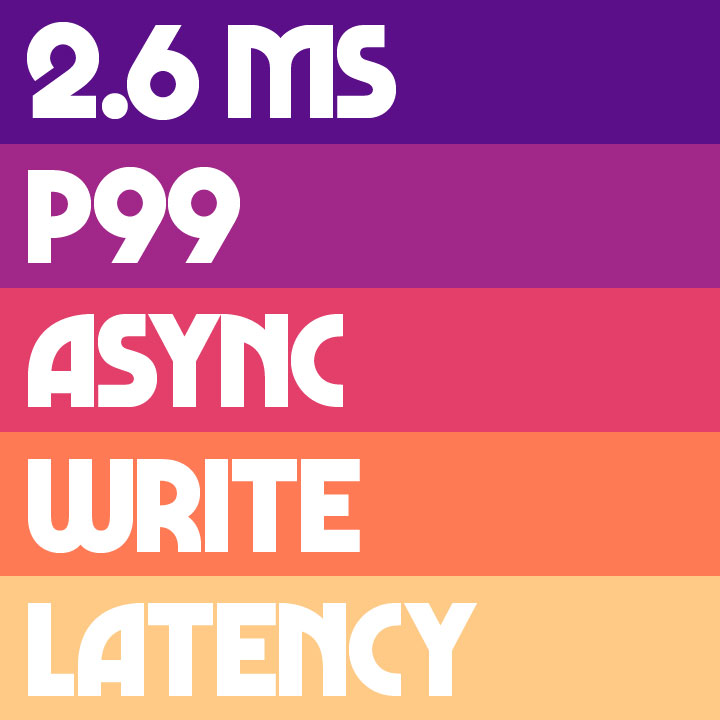
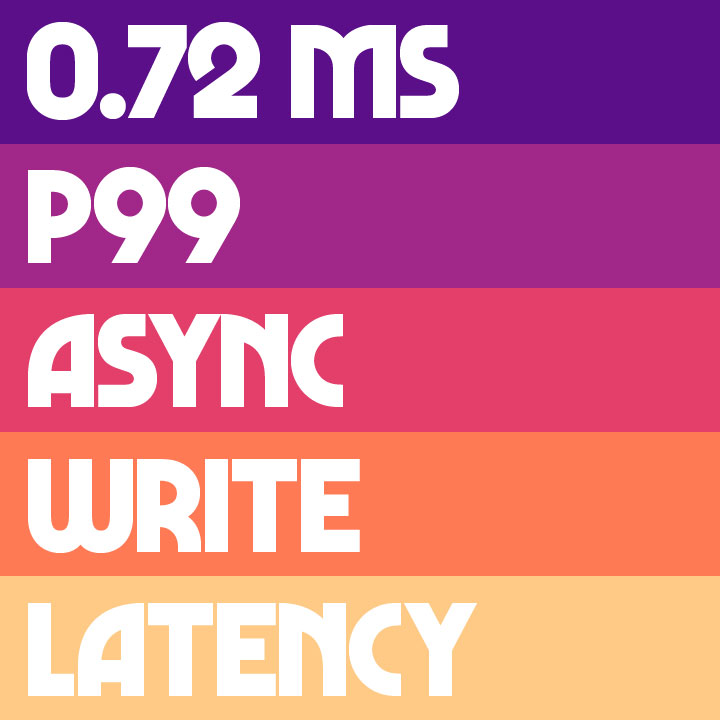
[docs] README: fix perf numbers with unthrottled version

Changed region(s): [[0.0306, 0.0306, 0.6417, 0.1833]]

diff --git a/README.md b/README.md
@@ -197,11 +197,11 @@ mikyu dequeue jobs
 
 ## <img src="https://api.iconify.design/lucide/rocket.svg?color=%23ffca86" width="20" height="20">&nbsp; Performance
 
-mikyu's core is built in a way that you don't have to choose between performance and simplicity.
+mikyu's core is optimized so that you don't have to choose between performance and simplicity.
 <table>
   <tr>
-    <td width="33%"><img src="assets/headline-01.jpg" alt="2.6ms p99 async write latency"></td>
-    <td width="33%"><img src="assets/headline-02.jpg" alt="Peak write throughput of 1M+ messages/sec"></td>
+    <td width="33%"><img src="assets/headline-01.jpg" alt="0.72ms p99 async write latency"></td>
+    <td width="33%"><img src="assets/headline-02.jpg" alt="Peak write throughput of 2M+ messages/sec"></td>
     <td width="33%"><img src="assets/headline-03.jpg" alt="Zero-copy reads; mmap on sealed segments"></td>
   </tr>
 </table>
@@ -209,7 +209,7 @@ mikyu's core is built in a way that you don't have to choose between performance
 <details>
 <summary>Details</summary>
 
-These numbers are derived from the built-in test harness as the mean of 2 back-to-back runs at its default settings. The benchmark can be run with `./mikyu bench run` on the binary.
+These numbers are from the built-in benchmark harness at its default settings (except total data size). They can be reproduced with running `./mikyu bench run --bytes 10GiB` on the binary.
 
 ### Device
 - OS    : macOS 26.6.2 (25G83)
@@ -222,7 +222,7 @@ These numbers are derived from the built-in test harness as the mean of 2 back-t
 - Access      : embedded
 - Durability  : async
 - Message size: 1 KiB
-- Total bytes : 5 GiB
+- Total bytes : 10 GiB
 - Batch size  : 64
 - Queues      : 1
 
